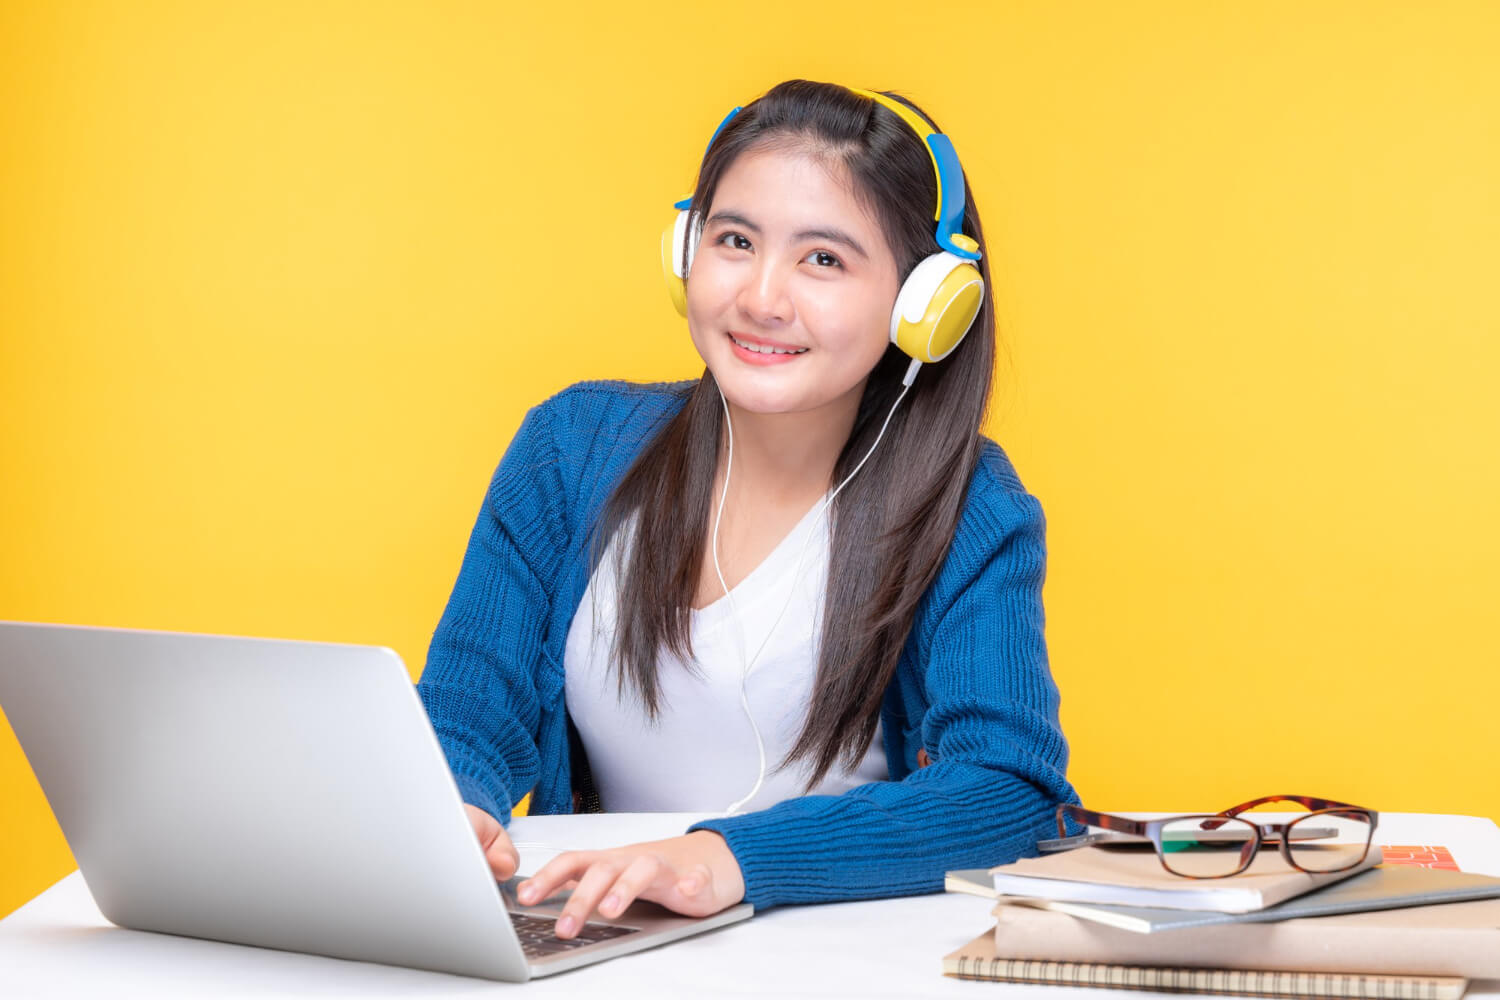
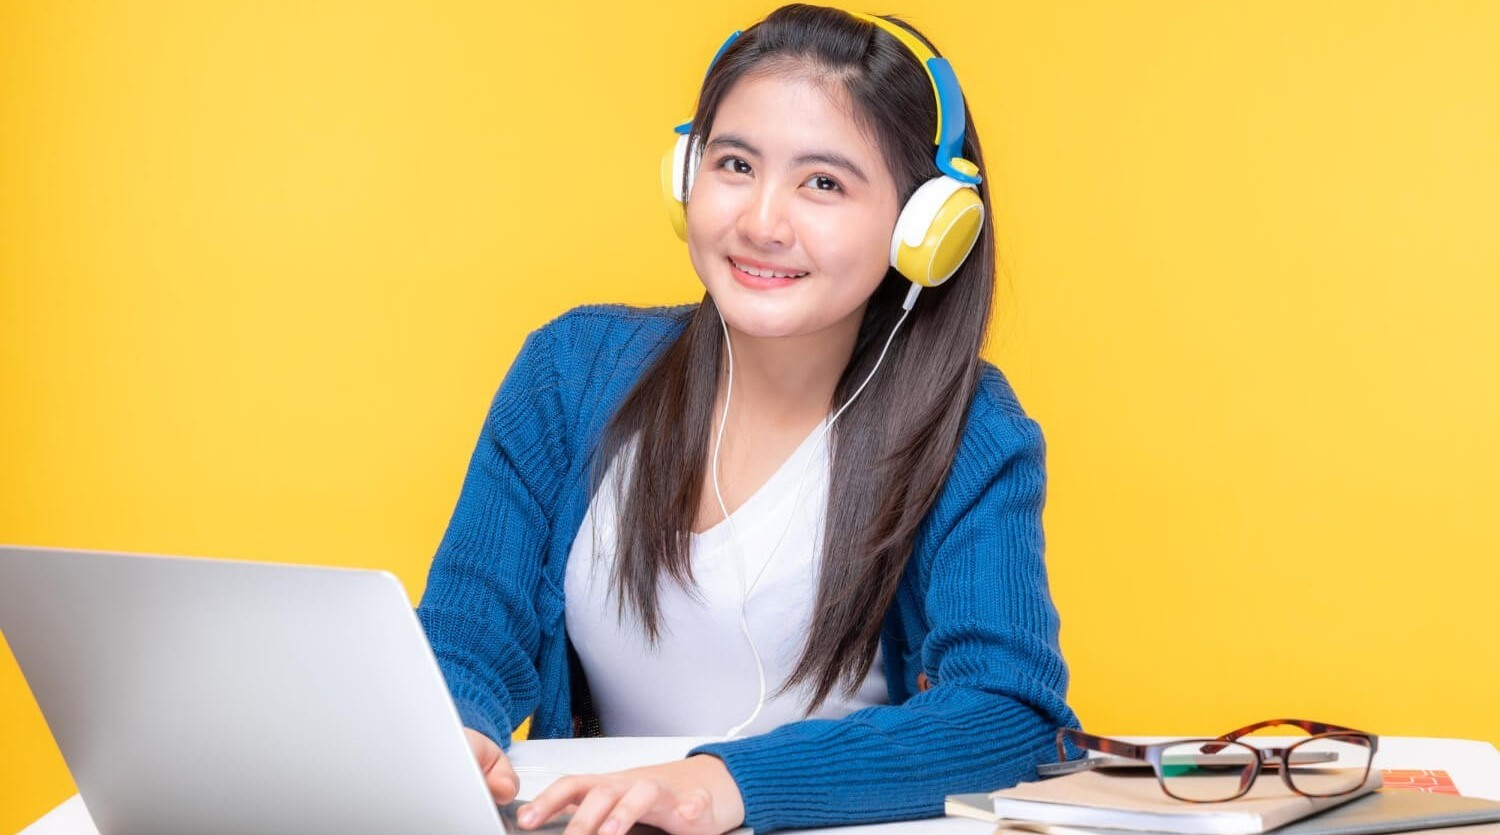
carousel committed

Changed region(s): [[0.0, 0.0, 1.0, 1.0]]

diff --git a/index.html b/index.html
@@ -6,6 +6,9 @@
     <meta name="viewport" content="width=device-width, initial-scale=1">
     <title>Education Care</title>
     <link rel="stylesheet" href="styles/style.css">
+    <link rel="preconnect" href="https://fonts.googleapis.com">
+    <link rel="preconnect" href="https://fonts.gstatic.com" crossorigin>
+    <link href="https://fonts.googleapis.com/css2?family=Roboto&display=swap" rel="stylesheet">
     <link href="https://cdn.jsdelivr.net/npm/bootstrap@5.2.0/dist/css/bootstrap.min.css" rel="stylesheet"
         integrity="sha384-gH2yIJqKdNHPEq0n4Mqa/HGKIhSkIHeL5AyhkYV8i59U5AR6csBvApHHNl/vI1Bx" crossorigin="anonymous">
 </head>
@@ -49,6 +52,192 @@
         </nav>
 
     </header>
+
+    <!------------------
+     Carousel part
+-------------------->
+
+    <section class="container">
+        <div id="carouselExampleCaptions" class="carousel slide" data-bs-ride="false">
+            <div class="carousel-indicators">
+                <button type="button" data-bs-target="#carouselExampleCaptions" data-bs-slide-to="0" class="active"
+                    aria-current="true" aria-label="Slide 1"></button>
+                <button type="button" data-bs-target="#carouselExampleCaptions" data-bs-slide-to="1"
+                    aria-label="Slide 2"></button>
+                <button type="button" data-bs-target="#carouselExampleCaptions" data-bs-slide-to="2"
+                    aria-label="Slide 3"></button>
+            </div>
+            <div class="carousel-inner">
+                <div class="carousel-item active">
+                    <img src="images/cover/cover-1.png" class="d-block w-100 img-fluid cover-image" alt="...">
+                    <div class="carousel-caption d-none d-md-block mb-5">
+                        <h1 class="fw-bolder font">Get Started Digital Learning</h1>
+                        <p>Enjoy our online classes staying at home</p>
+                        <button class="btn btn-info fw-semibold text-white px-3">Get started</button>
+                    </div>
+                </div>
+                <div class="carousel-item">
+                    <img src="images/cover/cover-2.jpg" class="d-block w-100 img-fluid cover-image" alt="...">
+                    <div class="carousel-caption d-none d-md-block mb-5">
+                        <h1 class="fw-bolder font">Let The Study More Easier For You</h1>
+                        <p>We follow the easiest but effective way to teach our students</p>
+                        <button class=" btn btn-info fw-semibold text-white px-3">Get started</button>
+                    </div>
+                </div>
+                <div class="carousel-item">
+                    <img src="images/cover/cover-3.jpg" class="d-block w-100 img-fluid cover-image" alt="...">
+                    <div class="carousel-caption d-none d-md-block mb-5">
+                        <h1 class="fw-bolder font">Education Care Gives The Full Support</h1>
+                        <p>We work for the students to achieve their goal</p>
+                        <button class="btn btn-info fw-semibold text-white px-3">Get started</button>
+                    </div>
+                </div>
+            </div>
+            <button class="carousel-control-prev" type="button" data-bs-target="#carouselExampleCaptions"
+                data-bs-slide="prev">
+                <span class="carousel-control-prev-icon" aria-hidden="true"></span>
+                <span class="visually-hidden">Previous</span>
+            </button>
+            <button class="carousel-control-next" type="button" data-bs-target="#carouselExampleCaptions"
+                data-bs-slide="next">
+                <span class="carousel-control-next-icon" aria-hidden="true"></span>
+                <span class="visually-hidden">Next</span>
+            </button>
+        </div>
+
+    </section>
+
+    <!-----------------
+         Course section
+    -------------------->
+
+    <section class="container">
+        <div class="text-center my-5">
+            <h2 class="fw-bolder">Discover Our Popular Courses</h2>
+            <p>Find the best online courses on Education Care. We provide the best system of education.
+            </p>
+        </div>
+
+        <div class="container overflow-hidden">
+            <div class="row g-3">
+                <div class="col-6 d-flex">
+                    <div class="col-12 d-flex border rounded">
+                        <img class="col-4 img-fluid" src="images/course/course-1.png" alt="">
+                        <div class="col-8 text-wrap d-flex align-items-center justify-content-center">
+                            <div class="text-dark text-opacity-75">
+                                <h4>Fundamental Of UI/UX Design</h4>
+                                <p>This course can make you hero from zero.</p>
+                                <h6 class="text-info">Price : 20$</h6>
+                            </div>
+                        </div>
+                    </div>
+                </div>
+                <div class="col-6 d-flex">
+                    <div class="col-12 d-flex border rounded">
+                        <img class="col-4 img-fluid" src="images/course/course-2.png" alt="">
+                        <div class="col-8 text-wrap d-flex align-items-center justify-content-center">
+                            <div class="text-dark text-opacity-75">
+                                <h4>Javascript Basic to advanced</h4>
+                                <p>This course can make you hero from zero.</p>
+                                <h6 class="text-info">Price : 20$</h6>
+                            </div>
+                        </div>
+                    </div>
+                </div>
+                <div class="col-6 d-flex">
+                    <div class="col-12 d-flex border rounded">
+                        <img class="col-4 img-fluid" src="images/course/course-3.png" alt="">
+                        <div class="col-8 text-wrap d-flex align-items-center justify-content-center">
+                            <div class="text-dark text-opacity-75">
+                                <h4>Fullstack Web Development</h4>
+                                <p>This course can make you hero from zero.</p>
+                                <h6 class="text-info">Price : 20$</h6>
+                            </div>
+                        </div>
+                    </div>
+                </div>
+                <div class="col-6 d-flex">
+                    <div class="col-12 d-flex border rounded">
+                        <img class="col-4 img-fluid" src="images/course/course-4.png" alt="">
+                        <div class="col-8 text-wrap d-flex align-items-center justify-content-center">
+                            <div class="text-dark text-opacity-75">
+                                <h4>Digital Marketing</h4>
+                                <p>This course can make you hero from zero.</p>
+                                <h6 class="text-info">Price : 20$</h6>
+                            </div>
+                        </div>
+                    </div>
+                </div>
+                <div class="col-6 d-flex">
+                    <div class="col-12 d-flex border rounded">
+                        <img class="col-4 img-fluid" src="images/course/course-5.png" alt="">
+                        <div class="col-8 text-wrap d-flex align-items-center justify-content-center">
+                            <div class="text-dark text-opacity-75">
+                                <h4>Photography Basic Rules</h4>
+                                <p>This course can make you hero from zero.</p>
+                                <h6 class="text-info">Price : 20$</h6>
+                            </div>
+                        </div>
+                    </div>
+                </div>
+                <div class="col-6 d-flex">
+                    <div class="col-12 d-flex border rounded">
+                        <img class="col-4 img-fluid" src="images/course/course-6.png" alt="">
+                        <div class="col-8 text-wrap d-flex align-items-center justify-content-center">
+                            <div class="text-dark text-opacity-75">
+                                <h4>Motion Graphics</h4>
+                                <p>This course can make you hero from zero.</p>
+                                <h6 class="text-info">Price : 20$</h6>
+                            </div>
+                        </div>
+                    </div>
+                </div>
+
+
+
+            </div>
+            <div class="text-center my-5">
+                <button class="btn btn-info text-white py-2 px-4 fw-semibold">See More Courses</button>
+            </div>
+        </div>
+
+    </section>
+
+    <section class="container d-flex justify-content-center align-items-center">
+        <div class="col-5">
+            <img class="img-fluid" src="images/working.png" alt="">
+        </div>
+        <div class="col-7">
+            <div class="p-5">
+                <h2 class="fw-bold">Explore The elearning Institute</h2>
+                <p class="text-secondary">There are many variations of passages of Lorem Ipsum available, but the
+                    majority have suffered alteration in some form, by injected humour, or
+                    randomised words which don't look even slightly believable. If you are going
+                    to use a passage of Lorem Ipsum, you need to be sure.
+
+
+                    Anything embarrassing hidden in the middle of text. All the Lorem Ipsum
+                    generators on the Internet tend to repeat predefined</p>
+                <div class="d-flex justify-content-between">
+                    <div>
+                        <h1 class="fw-bold">3.2K+</h1>
+                        <p class="text-secondary">Online Course</p>
+                    </div>
+                    <div>
+                        <h1 class="fw-bold">600+</h1>
+                        <p class="text-secondary">Expert member</p>
+                    </div>
+                    <div>
+                        <h1 class="fw-bold">1K+</h1>
+                        <p class="text-secondary">Rating & Review</p>
+                    </div>
+                </div>
+                <div class="my-3">
+                    <button class="btn btn-info text-white py-2 px-4 fw-semibold">Read more</button>
+                </div>
+            </div>
+        </div>
+    </section>
 
     <script src="https://cdn.jsdelivr.net/npm/bootstrap@5.2.0/dist/js/bootstrap.bundle.min.js"
         integrity="sha384-A3rJD856KowSb7dwlZdYEkO39Gagi7vIsF0jrRAoQmDKKtQBHUuLZ9AsSv4jD4Xa"

diff --git a/index-2.html b/index-2.html
@@ -1,0 +1,130 @@
+<!doctype html>
+<html lang="en">
+
+<head>
+    <meta charset="utf-8">
+    <meta name="viewport" content="width=device-width, initial-scale=1">
+    <title>Education Care</title>
+    <link rel="stylesheet" href="styles/style.css">
+    <link href="https://cdn.jsdelivr.net/npm/bootstrap@5.2.0/dist/css/bootstrap.min.css" rel="stylesheet"
+        integrity="sha384-gH2yIJqKdNHPEq0n4Mqa/HGKIhSkIHeL5AyhkYV8i59U5AR6csBvApHHNl/vI1Bx" crossorigin="anonymous">
+</head>
+
+<body>
+    <!--------------------
+         Navigation part 
+    ---------------------->
+
+    <header class="container">
+        <nav class="navbar navbar-expand-lg d-flex align-items-center m-4">
+            <div class="container">
+                <div><span class="navbar-brand fs-3 fw-bold text-secondary">Education care</span></div>
+                <button class="navbar-toggler" type="button" data-bs-toggle="collapse"
+                    data-bs-target="#navbarSupportedContent" aria-controls="navbarSupportedContent"
+                    aria-expanded="false" aria-label="Toggle navigation">
+                    <span class="navbar-toggler-icon"></span>
+                </button>
+                <div class="collapse navbar-collapse justify-content-center" id="navbarSupportedContent">
+                    <ul class="navbar-nav mb-2 mb-lg-0 fw-bold">
+                        <li class="nav-item">
+                            <a class="nav-link active" aria-current="page" href="#">Home</a>
+                        </li>
+                        <li class="nav-item">
+                            <a class="nav-link" href="#">Courses</a>
+                        </li>
+                        <li class="nav-item">
+                            <a class="nav-link" href="#">Offers</a>
+                        </li>
+                        <li class="nav-item">
+                            <a class="nav-link" href="#">About</a>
+                        </li>
+                        <li class="nav-item">
+                            <a class="nav-link" href="#">Contact</a>
+                        </li>
+                    </ul>
+                </div>
+            </div>
+            <div><a href="" class="btn btn-outline-primary">Register</a></div>
+        </nav>
+
+    </header>
+
+    <!-- carousel part -->
+
+    <section>
+        <div id="carouselExampleCaptions" class="carousel slide" data-bs-ride="false">
+            <div class="carousel-indicators">
+                <button type="button" data-bs-target="#carouselExampleCaptions" data-bs-slide-to="0" class="active"
+                    aria-current="true" aria-label="Slide 1"></button>
+                <button type="button" data-bs-target="#carouselExampleCaptions" data-bs-slide-to="1"
+                    aria-label="Slide 2"></button>
+                <button type="button" data-bs-target="#carouselExampleCaptions" data-bs-slide-to="2"
+                    aria-label="Slide 3"></button>
+            </div>
+            <div class="carousel-inner">
+                <div class="carousel-item active">
+                    <img src="images/cover/cover-1.png" class="d-block w-100 img-fluid" alt="...">
+                    <div class="carousel-caption d-none d-md-block">
+                        <h5>First slide label</h5>
+                        <p>Some representative placeholder content for the first slide.</p>
+                    </div>
+                </div>
+                <div class="carousel-item">
+                    <img src="images/cover/cover-2.jpg" class="d-block w-100 img-fluid" alt="...">
+                    <div class="carousel-caption d-none d-md-block">
+                        <h5>Second slide label</h5>
+                        <p>Some representative placeholder content for the second slide.</p>
+                    </div>
+                </div>
+                <div class="carousel-item">
+                    <img src="images/cover/cover-3.jpg" class="d-block w-100 img-fluid" alt="...">
+                    <div class="carousel-caption d-none d-md-block">
+                        <h5>Third slide label</h5>
+                        <p>Some representative placeholder content for the third slide.</p>
+                    </div>
+                </div>
+            </div>
+            <button class="carousel-control-prev" type="button" data-bs-target="#carouselExampleCaptions"
+                data-bs-slide="prev">
+                <span class="carousel-control-prev-icon" aria-hidden="true"></span>
+                <span class="visually-hidden">Previous</span>
+            </button>
+            <button class="carousel-control-next" type="button" data-bs-target="#carouselExampleCaptions"
+                data-bs-slide="next">
+                <span class="carousel-control-next-icon" aria-hidden="true"></span>
+                <span class="visually-hidden">Next</span>
+            </button>
+        </div>
+    </section>
+    <section>
+        <div id="carouselExampleControls" class="carousel slide" data-bs-ride="carousel">
+            <div class="carousel-inner">
+                <div class="carousel-item active">
+                    <img src="images/cover/cover-1.png" class="d-block w-100" alt="...">
+                </div>
+                <div class="carousel-item">
+                    <img src="images/cover/cover-2.jpg" class="d-block w-100" alt="...">
+                </div>
+                <div class="carousel-item">
+                    <img src="images/cover/cover-3.jpg" class="d-block w-100" alt="...">
+                </div>
+            </div>
+            <button class="carousel-control-prev" type="button" data-bs-target="#carouselExampleControls"
+                data-bs-slide="prev">
+                <span class="carousel-control-prev-icon" aria-hidden="true"></span>
+                <span class="visually-hidden">Previous</span>
+            </button>
+            <button class="carousel-control-next" type="button" data-bs-target="#carouselExampleControls"
+                data-bs-slide="next">
+                <span class="carousel-control-next-icon" aria-hidden="true"></span>
+                <span class="visually-hidden">Next</span>
+            </button>
+        </div>
+    </section>
+
+    <script src="https://cdn.jsdelivr.net/npm/bootstrap@5.2.0/dist/js/bootstrap.bundle.min.js"
+        integrity="sha384-A3rJD856KowSb7dwlZdYEkO39Gagi7vIsF0jrRAoQmDKKtQBHUuLZ9AsSv4jD4Xa"
+        crossorigin="anonymous"></script>
+</body>
+
+</html>

diff --git a/styles/style.css b/styles/style.css
@@ -1,0 +1,7 @@
+.font {
+    font-family: 'Roboto', sans-serif;
+}
+
+.carousel .carousel-item .cover-image {
+    max-height: 700px;
+}
